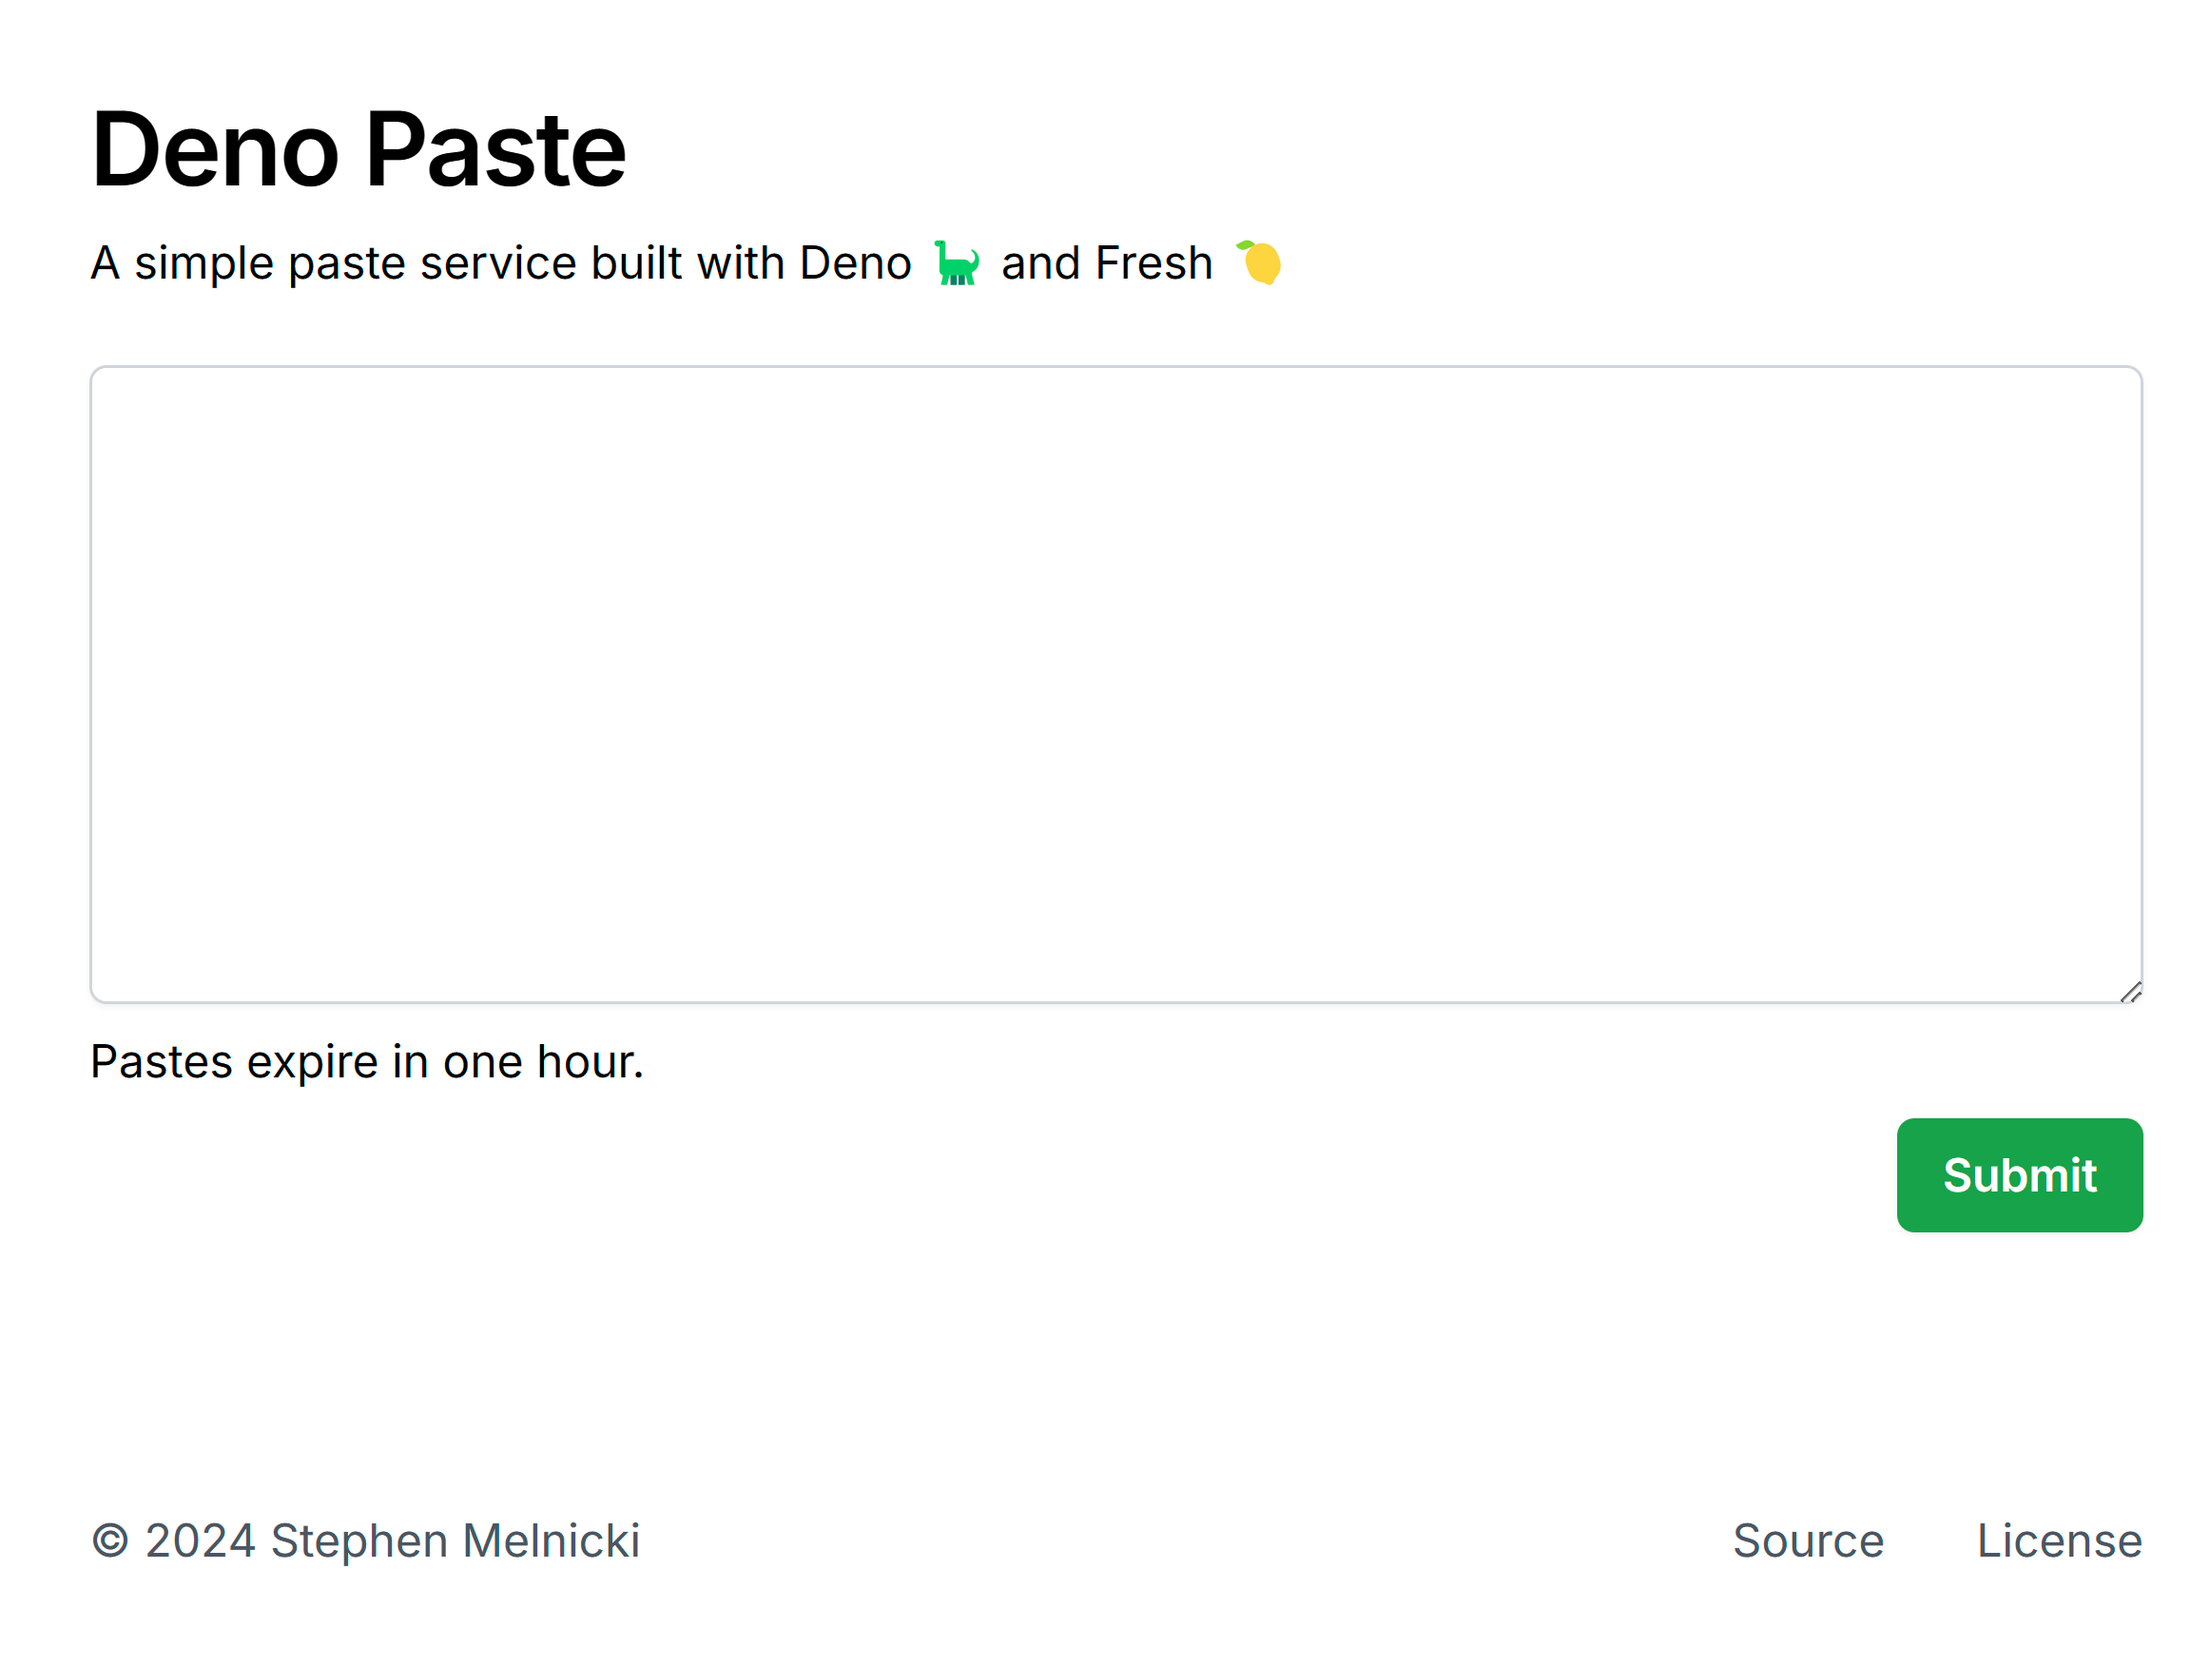
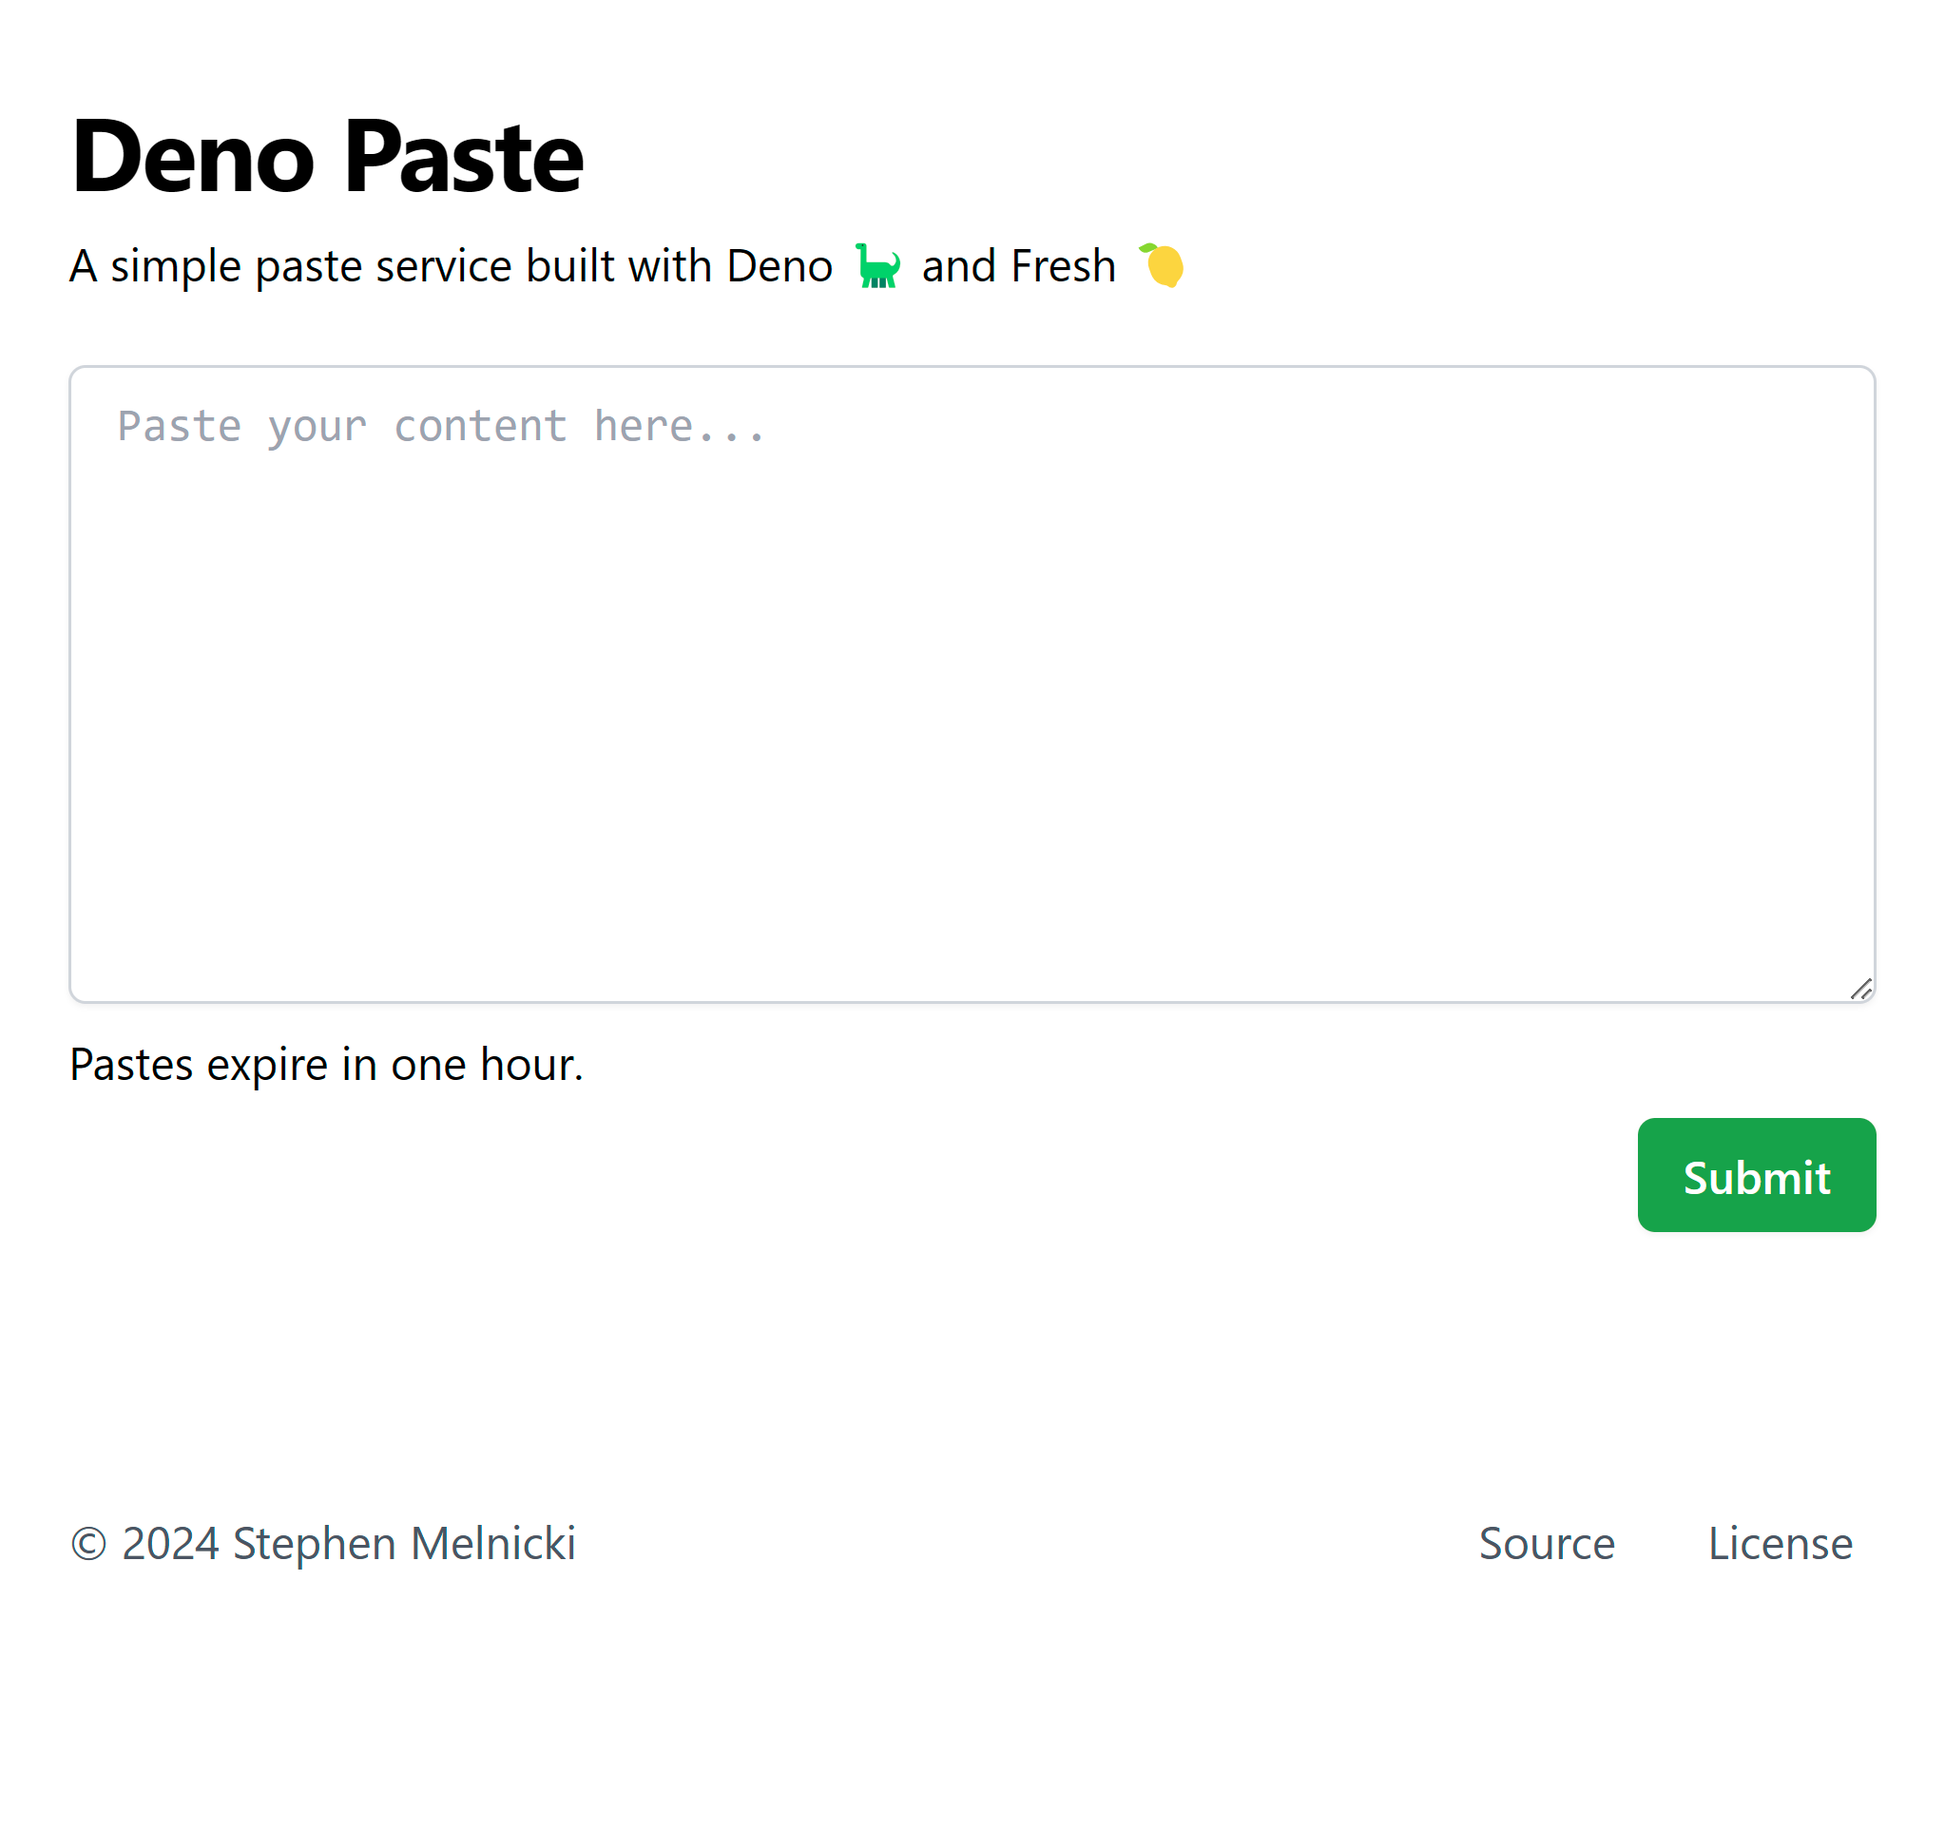
updated paste view page and new paste actions

diff --git a/islands/CopyToClipboardButton.tsx b/islands/CopyToClipboardButton.tsx
@@ -1,35 +1,43 @@
+import { useCallback } from "preact/hooks";
 import { useSignal } from "@preact/signals";
-
-const COPY_TO_CLIPBOARD = "Copy to Clipboard";
-const COPIED = "Copied!";
+import { GoCopy } from "@preact-icons/go";
 
 interface Props {
   contents: string;
 }
 
 export default function CopyToClipboardButton({ contents }: Props) {
-  const text = useSignal<string>(COPY_TO_CLIPBOARD);
+  const title = useSignal<string>("Copy to Clipboard");
+  const wiggle = useSignal<boolean>(false);
 
-  async function writeToClipboard() {
+  const writeToClipboard = useCallback(async () => {
+    wiggle.value = true;
+
     try {
       await navigator.clipboard.writeText(contents);
-      text.value = COPIED;
-      setTimeout(() => text.value = COPY_TO_CLIPBOARD, 750);
+      title.value = "Copied!";
+      setTimeout(() => title.value = "Copy to Clipboard", 2000);
+      console.log("copied");
     } catch (err) {
       console.error("error copying to clipboard", err);
     }
-  }
+  }, [wiggle]);
+
+  const onAnimationEnd = useCallback(() => wiggle.value = false, [wiggle]);
 
   return (
     <button
-      id="copy-btn"
+      data-testid="copy"
       type="button"
-      class={`py-2 font-semibold rounded-md bg-green-600 text-white hover:bg-green-500 ${
-        text.value === COPY_TO_CLIPBOARD ? "px-4" : "px-[3.37rem]"
-      }`}
+      title={title.value}
+      class={`${
+        wiggle.value && "animate-wiggle"
+      } px-2 py-2 rounded-md hover:bg-gray-50 focus:z-20 focus:outline-offset-0`}
       onClick={writeToClipboard}
+      onAnimationEnd={onAnimationEnd}
     >
-      {text}
+      <span class="sr-only">Copy to Clipboard</span>
+      <GoCopy class="w-5 h-5 " />
     </button>
   );
 }

diff --git a/components/Footer.tsx b/components/Footer.tsx
@@ -4,29 +4,31 @@ export default function Footer() {
       <span>
         &copy; 2024 Stephen Melnicki
       </span>
-      <ul class="flex flex-row justify-center items-center gap-8">
-        <li>
-          <a
-            class="hover:underline"
-            data-test-id="source-link"
-            href="https://github.com/stephenmelnicki/denopaste"
-            rel="noopener noreferrer"
-            target="_blank"
-          >
-            Source
-          </a>
-        </li>
-        <li>
-          <a
-            class="hover:underline"
-            href="https://raw.githubusercontent.com/stephenmelnicki/denopaste/main/LICENSE"
-            rel="noopener noreferrer"
-            target="_blank"
-          >
-            License
-          </a>
-        </li>
-      </ul>
+      <nav>
+        <ul class="flex flex-row justify-center items-center gap-4">
+          <li>
+            <a
+              class="p-2 hover:underline"
+              data-test-id="source-link"
+              href="https://github.com/stephenmelnicki/denopaste"
+              rel="noopener noreferrer"
+              target="_blank"
+            >
+              Source
+            </a>
+          </li>
+          <li>
+            <a
+              class="p-2 hover:underline"
+              href="https://raw.githubusercontent.com/stephenmelnicki/denopaste/main/LICENSE"
+              rel="noopener noreferrer"
+              target="_blank"
+            >
+              License
+            </a>
+          </li>
+        </ul>
+      </nav>
     </footer>
   );
 }

diff --git a/islands/DownloadButton.tsx b/islands/DownloadButton.tsx
@@ -1,0 +1,48 @@
+import { useCallback } from "preact/hooks";
+import { useSignal } from "@preact/signals";
+import { GoDownload } from "@preact-icons/go";
+
+interface Props {
+  id: string;
+  contents: string;
+}
+
+export default function DownloadButton({ id, contents }: Props) {
+  const wiggle = useSignal<boolean>(false);
+
+  const writeToFile = useCallback(() => {
+    wiggle.value = true;
+
+    try {
+      const anchor = document.createElement("a");
+      anchor.setAttribute("download", `${id}.txt`);
+      const href = URL.createObjectURL(
+        new Blob([contents], { type: "text/plain" }),
+      );
+      anchor.href = href;
+      anchor.setAttribute("target", "_blank");
+      anchor.click();
+      URL.revokeObjectURL(href);
+    } catch (err) {
+      console.error(err);
+    }
+  }, [wiggle]);
+
+  const onAnimationEnd = useCallback(() => wiggle.value = false, [wiggle]);
+
+  return (
+    <button
+      data-testid="download"
+      type="button"
+      title="Download raw file"
+      class={`${
+        wiggle.value && "animate-wiggle"
+      } px-2 py-2 rounded-md hover:bg-gray-50 focus:z-20 focus:outline-offset-0`}
+      onClick={writeToFile}
+      onAnimationEnd={onAnimationEnd}
+    >
+      <span class="sr-only">Download raw file</span>
+      <GoDownload class="w-5 h-5 " />
+    </button>
+  );
+}

diff --git a/routes/[id]/index.tsx b/routes/[id]/index.tsx
@@ -4,7 +4,7 @@ import { HttpError, page } from "fresh";
 import { define, type State } from "../../utils/define.ts";
 import Paste from "../../data/paste.ts";
 import { pageTitle } from "../../utils/title.ts";
-import CopyToClipboardButton from "../../islands/CopyToClipboardButton.tsx";
+import PasteActions from "../../islands/PasteActions.tsx";
 import Line from "../../components/Line.tsx";
 
 interface Data {
@@ -29,18 +29,9 @@ function PasteById(props: PageProps<Data>) {
   const { paste } = props.data;
 
   return (
-    <main class="mt-6 mb-16">
-      <div class="mb-6 flex items-center justify-between gap-x-4 sm:justify-end">
-        <a
-          id="view-raw"
-          class="px-4 py-2 font-semibold rounded-md"
-          href={`/${paste.id}/raw`}
-        >
-          View Raw
-        </a>
-        <CopyToClipboardButton contents={paste.contents} />
-      </div>
-      <pre class="bg-gray-100 border rounded-md border-gray-300 overflow-auto">
+    <main class="mt-6 mb-8" data-testid="paste-contents">
+      <PasteActions paste={paste} />
+      <pre class="py-2 border-l border-r border-b rounded-b-md border-gray-300 overflow-auto shadow-sm">
         {
           paste.contents
             .split('\n')

diff --git a/islands/PasteActions.tsx b/islands/PasteActions.tsx
@@ -1,0 +1,42 @@
+import { useMemo } from "preact/hooks";
+
+import Paste from "../data/paste.ts";
+import CopyToClipboardButton from "./CopyToClipboardButton.tsx";
+import DownloadButton from "./DownloadButton.tsx";
+import { bytesSize } from "../utils/size.ts";
+
+interface Props {
+  paste: Paste;
+}
+
+export default function PasteActions({ paste }: Props) {
+  const lineCount = useMemo(() => paste.contents.trim().split("\n").length, [
+    paste,
+  ]);
+
+  const byteCount = useMemo(
+    () => bytesSize(paste.contents),
+    [paste],
+  );
+
+  return (
+    <div class="flex items-center justify-between border rounded-t-md bg-gray-100 border-gray-300">
+      <div class="pl-3 py-3 flex items-center gap-2">
+        <p>{`${lineCount} lines`}</p>
+        <span>&bull;</span>
+        <p>{byteCount}</p>
+      </div>
+      <nav class="px-2 flex items-center justify-end">
+        <a
+          data-testid="view-raw"
+          class="p-2 hover:underline"
+          href={`/${paste.id}/raw`}
+        >
+          View Raw
+        </a>
+        <CopyToClipboardButton contents={paste.contents} />
+        <DownloadButton id={paste.id} contents={paste.contents} />
+      </nav>
+    </div>
+  );
+}

diff --git a/islands/Tooltip.tsx b/islands/Tooltip.tsx
@@ -1,0 +1,35 @@
+import { useCallback, useRef } from "preact/hooks";
+import { useSignal } from "@preact/signals";
+import type { JSX } from "preact";
+
+interface Props {
+  className?: string;
+  label: string;
+  children: JSX.Element;
+}
+
+export default function Tooltip({ className = "", label, children }: Props) {
+  const tooltip = useRef<HTMLDivElement>(null);
+  const hidden = useSignal<boolean>(true);
+
+  const onMouseEnter = useCallback(() => hidden.value = false, []);
+  const onMouseLeave = useCallback(() => hidden.value = true, []);
+
+  return (
+    <div
+      ref={tooltip}
+      class={`group relative w-max ${className}`}
+      data-testid="tooltip-container"
+      onMouseEnter={onMouseEnter}
+      onMouseLeave={onMouseLeave}
+    >
+      <div
+        hidden={hidden.value}
+        class={`absolute -translate-y-12 -translate-x-12 transition duration-75 ease-in-out z-10 bg-gray-100 rounded p-2 shadow-md text-nowrap pointer-events-none`}
+      >
+        <span class="text-sm">{label}</span>
+      </div>
+      {children}
+    </div>
+  );
+}

diff --git a/islands/PasteForm.tsx b/islands/PasteForm.tsx
@@ -55,7 +55,8 @@ export default function PasteForm() {
         id="contents"
         name="contents"
         type="text"
-        class="block w-full h-56 px-4 py-2 border-0 rounded-md shadow-sm ring-1 ring-inset ring-gray-300 focus:ring-2 focus:ring-inset focus:ring-green-600"
+        class="font-mono block w-full h-56 px-4 py-2 border border-gray-300 rounded-md shadow-sm focus:border-green-600 focus:border-2"
+        placeholder="Paste your content here..."
         value={contents.value}
         onInput={onInput}
         onKeyDown={onKeyDown}

diff --git a/tailwind.config.ts b/tailwind.config.ts
@@ -4,4 +4,17 @@ export default {
   content: [
     "{routes,islands,components}/**/*.{ts,tsx}",
   ],
+  theme: {
+    extend: {
+      keyframes: {
+        wiggle: {
+          "0%, 100%": { transform: "rotate(-5deg)" },
+          "50%": { transform: "rotate(5deg)" },
+        },
+      },
+      animation: {
+        wiggle: "wiggle 200ms ease-in-out",
+      },
+    },
+  },
 } satisfies Config;

diff --git a/e2e/denopaste_test.ts b/e2e/denopaste_test.ts
@@ -45,7 +45,7 @@ Deno.test("create paste", async () => {
 
     expect(contents).toEqual("Hello, deno paste!");
 
-    await page.locator("#view-raw").click();
+    await page.locator("a[data-testid='view-raw']").click();
     await page.waitForNavigation();
 
     expect(page.url.endsWith("/raw")).toBe(true);

diff --git a/data/paste.ts b/data/paste.ts
@@ -60,7 +60,7 @@ export default class Paste {
       throw new PasteEmptyError();
     }
 
-    if (new Blob([contents]).size > 1024 * 64) {
+    if (new TextEncoder().encode(contents).length > 1024 * 64) {
       throw new PasteTooLargeError();
     }
 

diff --git a/components/Line.tsx b/components/Line.tsx
@@ -13,8 +13,6 @@ export default function Line(props: LineProps) {
     "before:w-16",
     "before:text-right",
     "before:content-[attr(data-line-number)]",
-    "before:border-r",
-    "before:border-gray-300",
   ];
 
   return (

diff --git a/utils/size.ts b/utils/size.ts
@@ -1,0 +1,4 @@
+export function bytesSize(contents: string): string {
+  const size = new TextEncoder().encode(contents).length;
+  return size < 1024 ? `${size} Bytes` : `${(size / 1024).toFixed(2)} KB`;
+}
